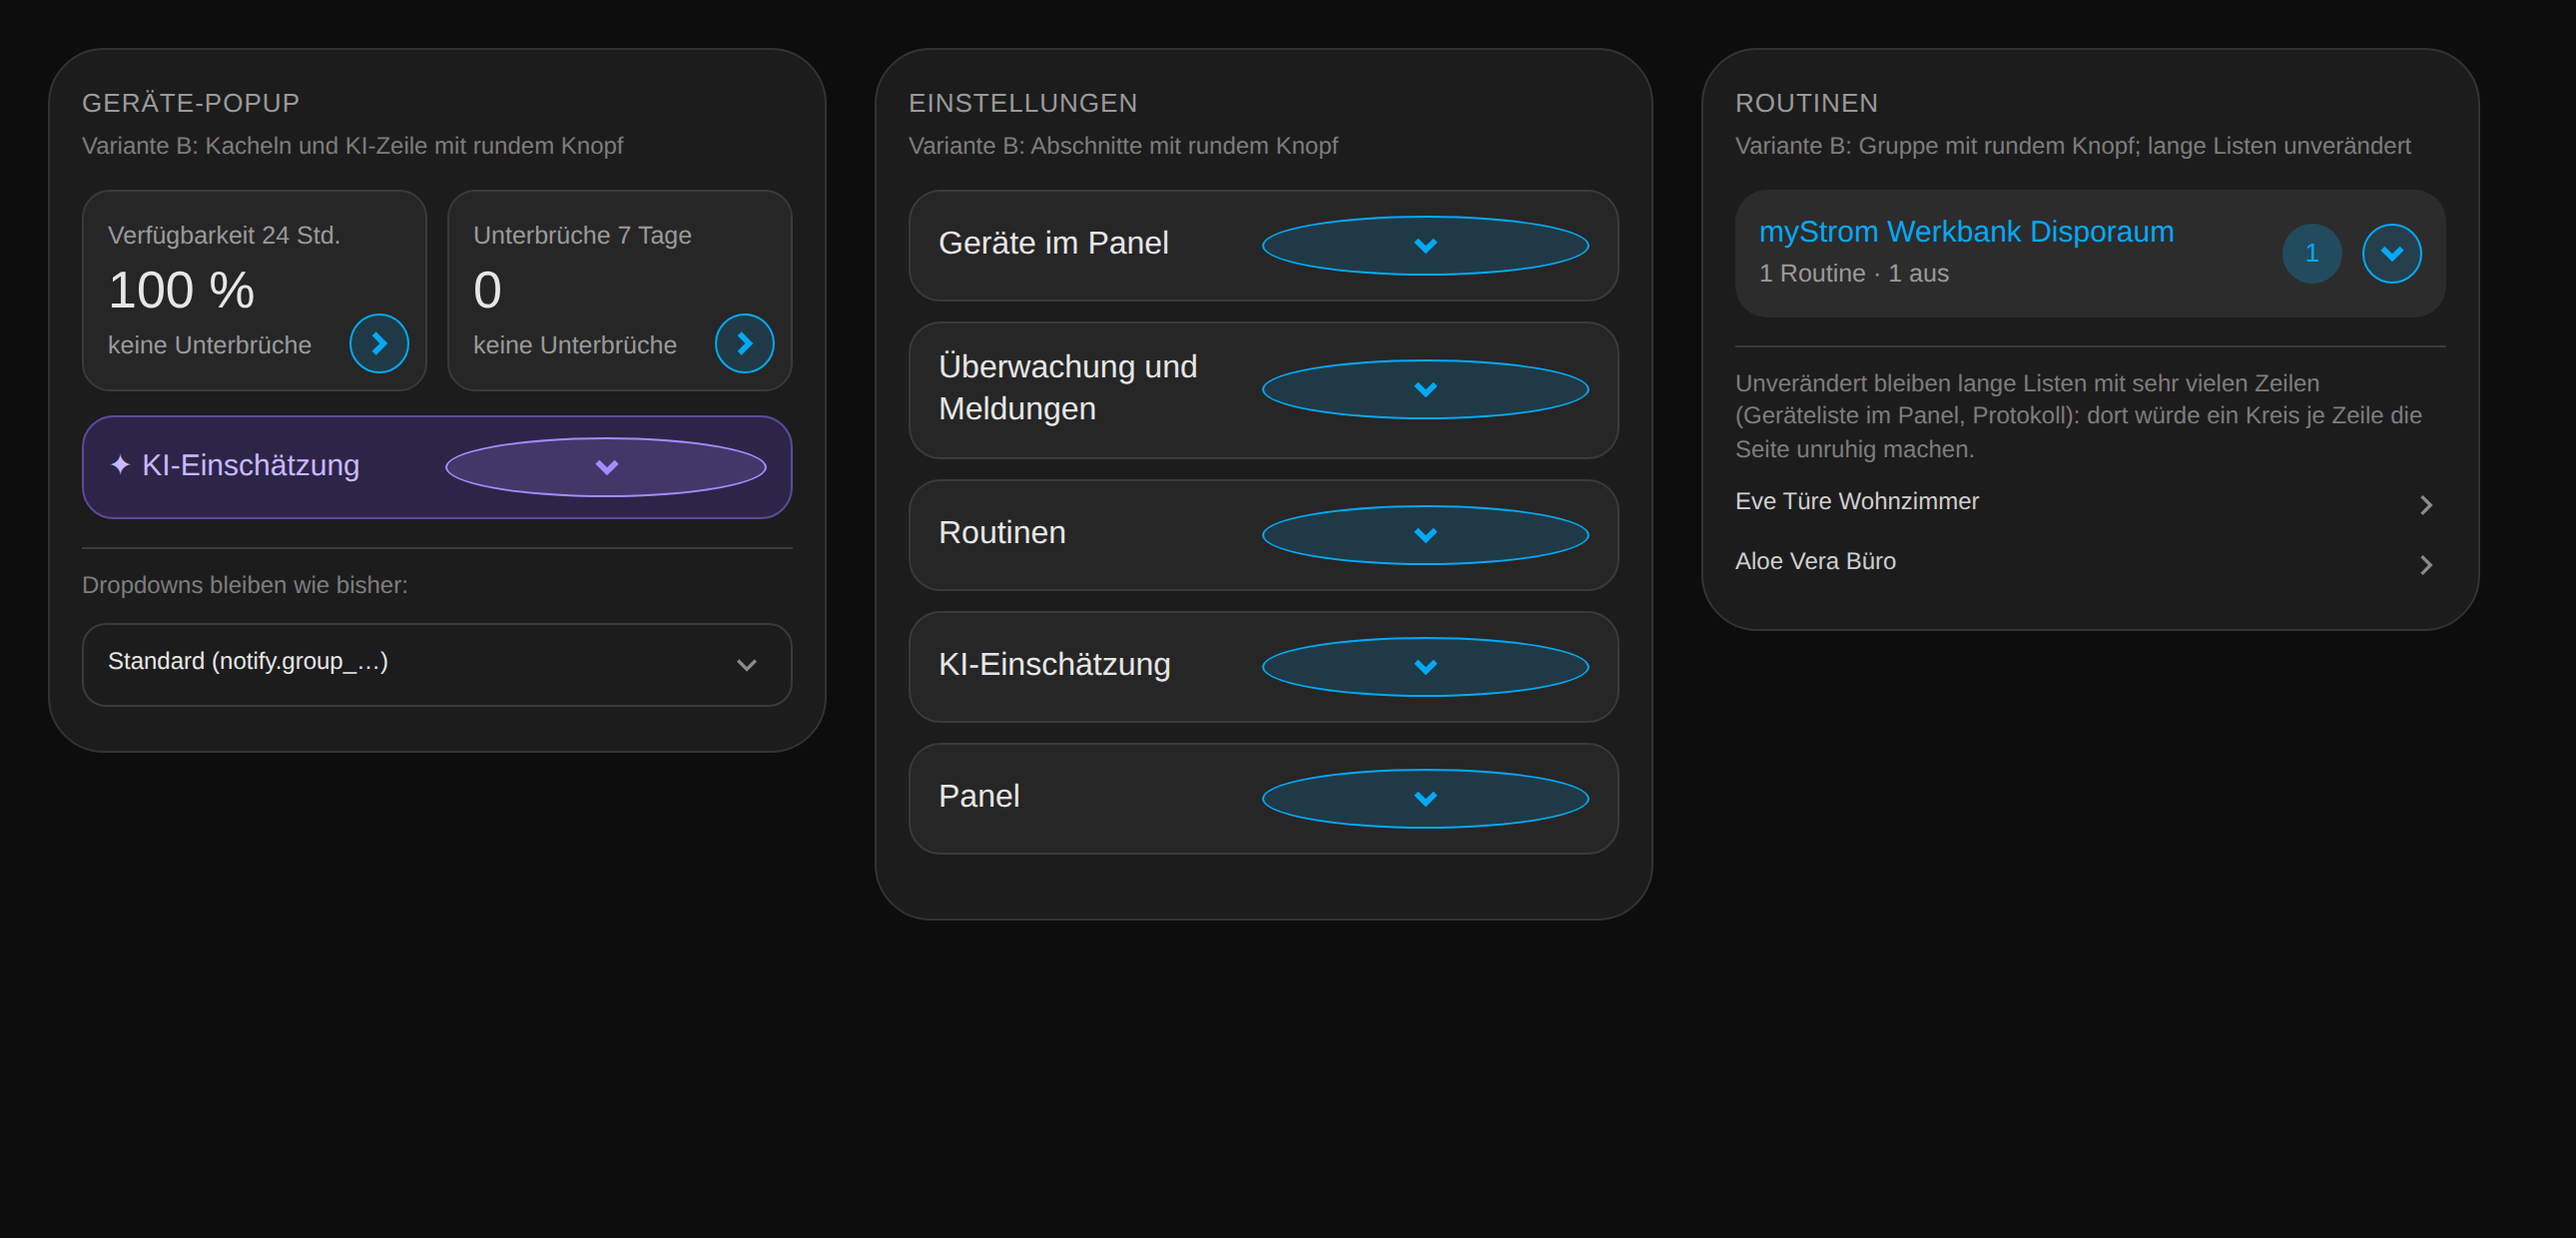
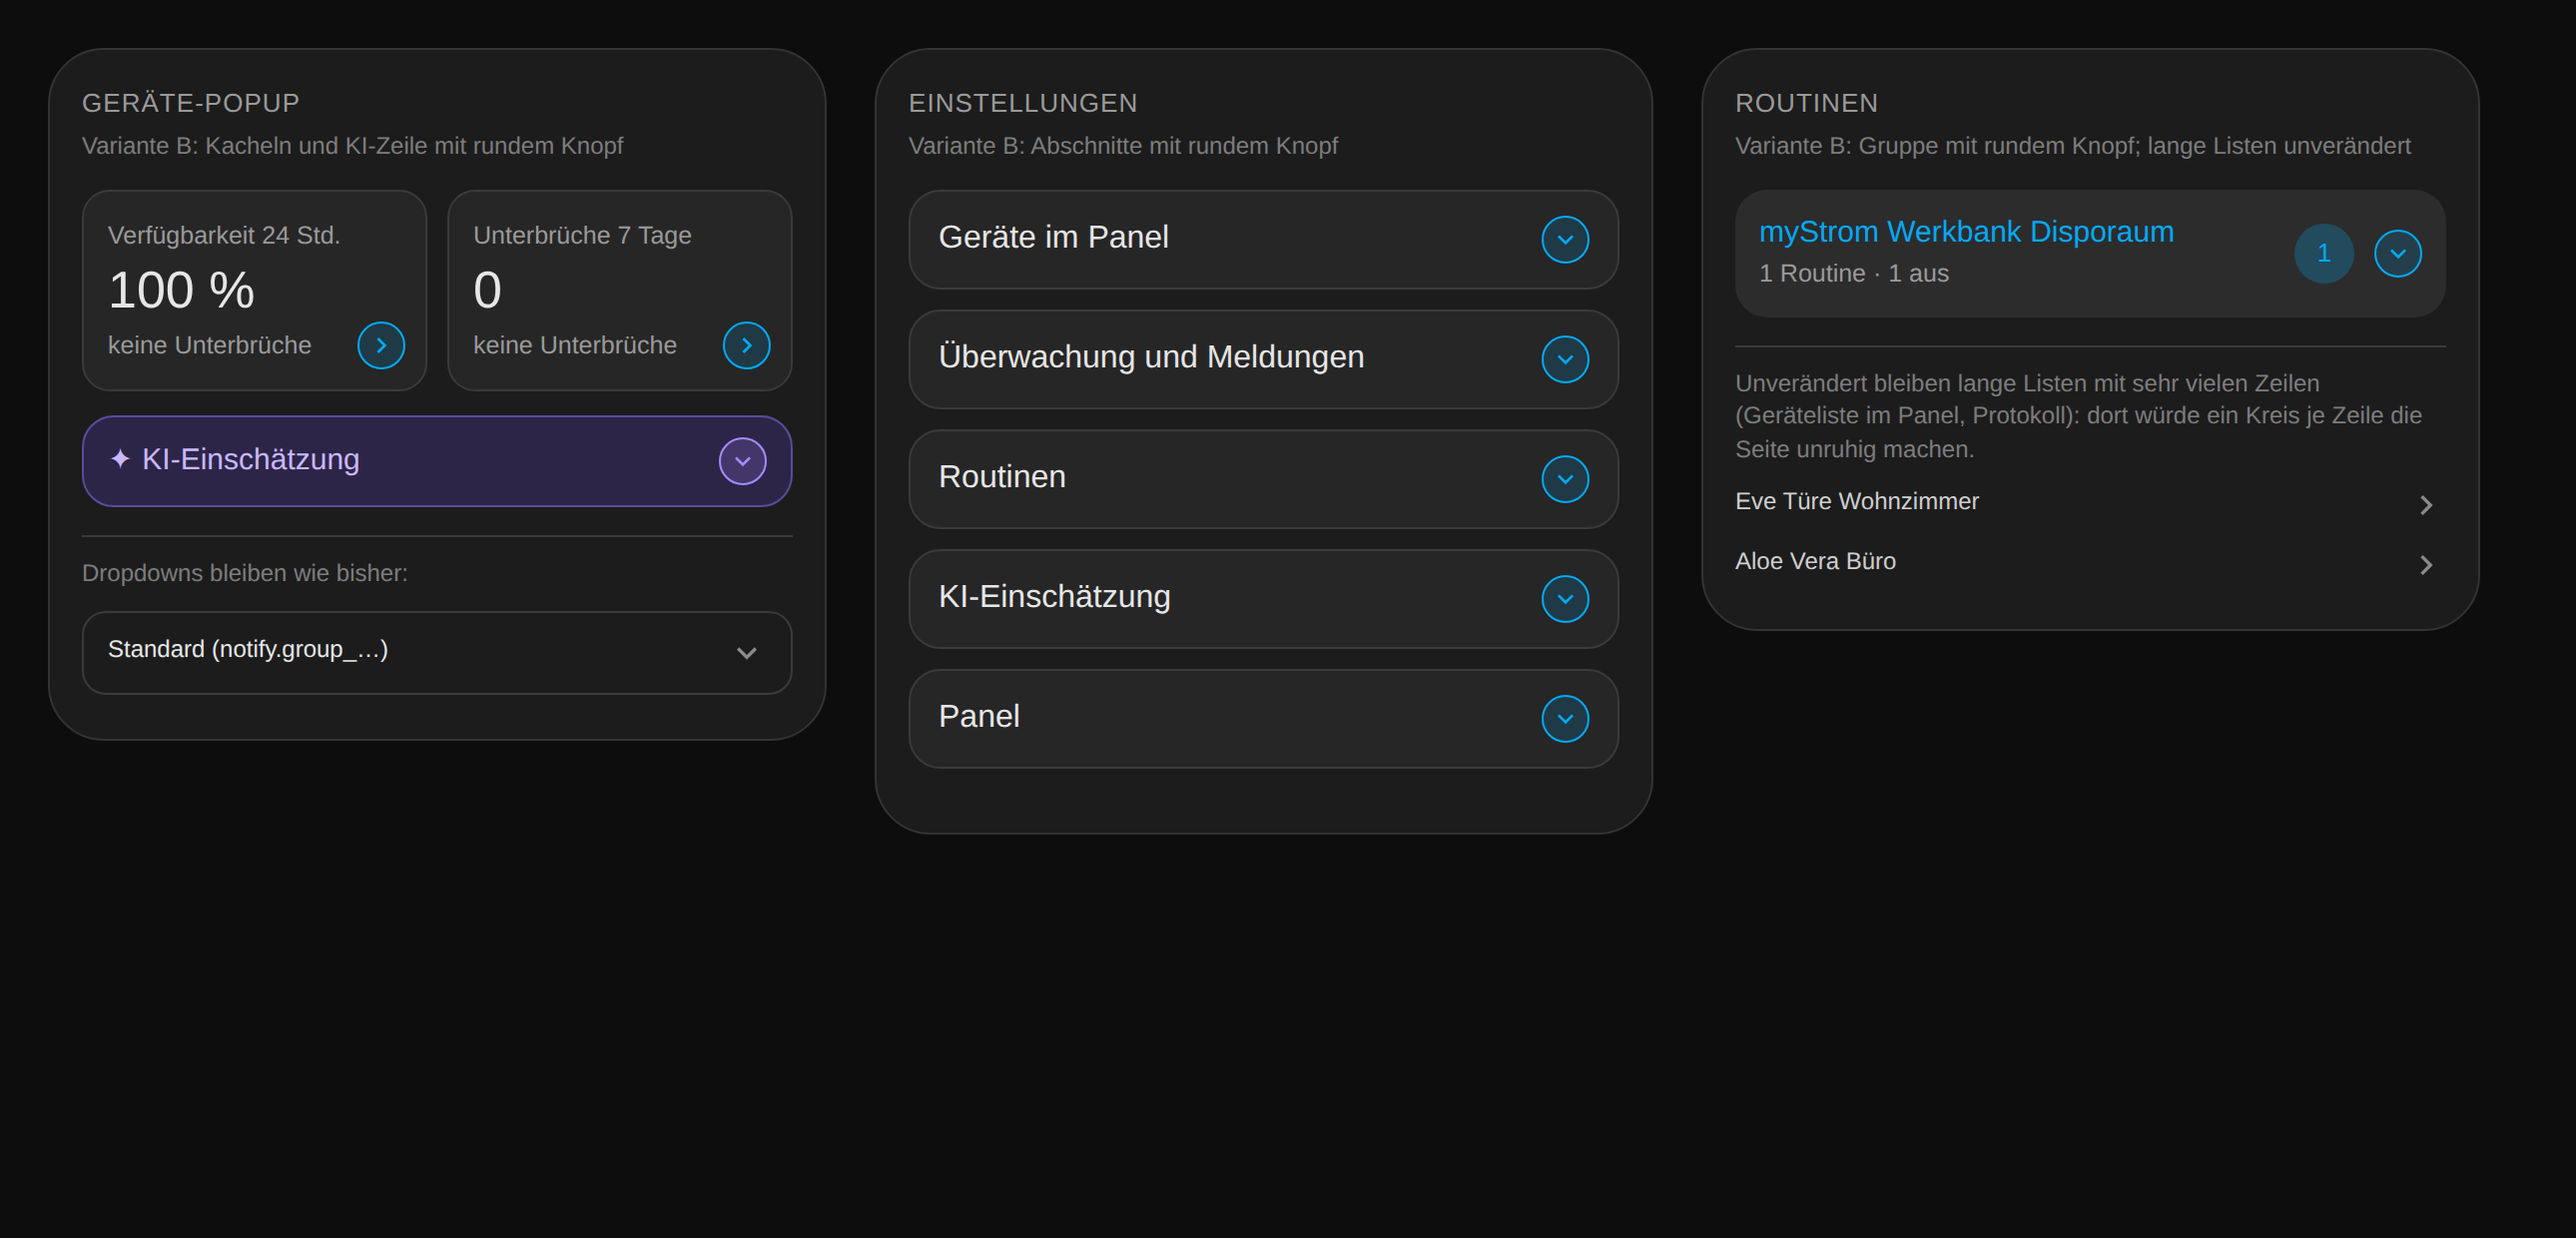
Mockup chevron-v1: kleine runde Knöpfe, Ovale behoben
Claude-Session: https://claude.ai/code/session_01U1q7hu4Br2u4E6fFdEJMgU

diff --git a/docs/mockups/chevron-v1/index.html b/docs/mockups/chevron-v1/index.html
@@ -5,17 +5,17 @@
 .ph{width:390px;background:var(--bg);border-radius:28px;padding:18px 16px 22px;border:1px solid #333}
 h2{margin:0 0 4px;font-size:13px;color:var(--tx2);font-weight:500;letter-spacing:.04em}
 .cap{font-size:12px;color:#7d7d7d;margin:0 0 14px}
-.rb{display:inline-grid;place-items:center;width:30px;height:30px;border:1.5px solid var(--pri);border-radius:50%;background:var(--soft);color:var(--pri);flex:none}
-.rb svg{width:20px;height:20px;fill:currentColor;stroke:currentColor;stroke-width:1.4px}
+.rb{display:inline-grid;place-items:center;width:24px;height:24px;border:1px solid var(--pri);border-radius:50%;background:var(--soft);color:var(--pri);flex:none}
+.rb svg{width:16px;height:16px;fill:currentColor}
 .plain{color:#8a8a8a;display:inline-grid}.plain svg{width:20px;height:20px;fill:currentColor}
 .tiles{display:grid;grid-template-columns:1fr 1fr;gap:10px;margin-bottom:12px}
 .tile{background:var(--card);border:1px solid var(--line);border-radius:14px;padding:12px;position:relative;min-height:84px}
 .tile small{color:var(--tx2)}.tile b{font-size:26px;font-weight:500;display:block}
-.tile .rb{position:absolute;right:8px;bottom:8px}
+.tile .rb{position:absolute;right:10px;bottom:10px}
 .ki{background:#2d2547;border:1px solid #5b4b9c;border-radius:16px;padding:10px 12px;display:flex;align-items:center;gap:10px;margin-bottom:14px;color:#c9b8ff}
-.ki span{flex:1;font-weight:500}.ki .rb{border-color:#a58bff;background:rgba(165,139,255,.18);color:#a58bff}
+.ki>span:first-child{flex:1;font-weight:500}.ki .rb{border-color:#a58bff;background:rgba(165,139,255,.18);color:#a58bff}
 .sec{background:var(--card);border:1px solid var(--line);border-radius:16px;padding:12px 14px;margin-bottom:10px;display:flex;align-items:center}
-.sec span{flex:1;font-size:16px}
+.sec>span:first-child{flex:1;font-size:16px}
 .grp{background:#2c2c2c;border-radius:16px;padding:12px;display:flex;align-items:center;gap:10px}
 .grp div{flex:1}.grp b{color:var(--pri);font-weight:500;display:block}.grp small{color:var(--tx2)}
 .cnt{width:30px;height:30px;border-radius:50%;background:rgba(3,169,244,.25);color:var(--pri);display:grid;place-items:center;font-size:13px}
